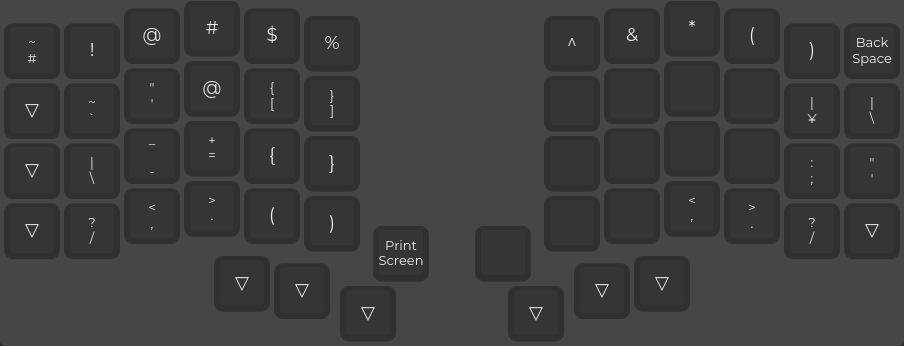
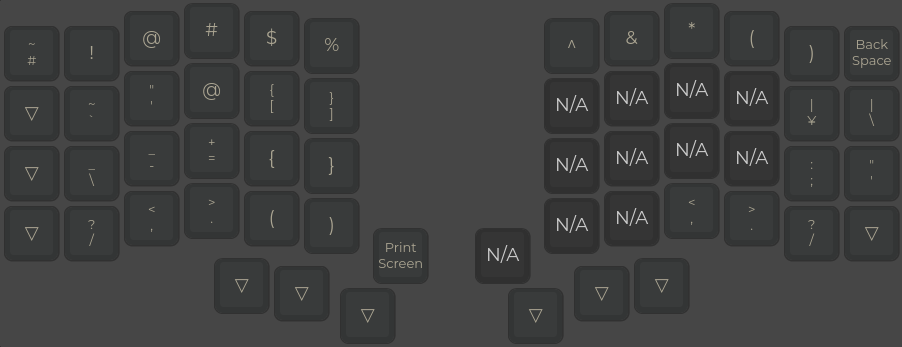
Fix backslash

diff --git a/src/keymap.c b/src/keymap.c
@@ -8,7 +8,7 @@
 
 const uint16_t PROGMEM keymaps[][MATRIX_ROWS][MATRIX_COLS] = {
 	[0] = LAYOUT(KC_GESC, KC_1, KC_2, KC_3, KC_4, KC_5, KC_6, KC_7, KC_8, KC_9, KC_0, KC_BSPC, KC_TAB, KC_Q, KC_W, KC_E, KC_R, KC_T, KC_Y, KC_U, KC_I, KC_O, KC_P, KC_BSLS, KC_LCTL, KC_A, KC_S, KC_D, KC_F, KC_G, KC_H, KC_J, KC_K, KC_L, KC_SCLN, KC_QUOT, KC_LSFT, KC_Z, KC_X, KC_C, KC_V, KC_B, MO(4), MO(3), KC_N, KC_M, KC_COMM, KC_DOT, KC_SLSH, KC_RSFT, KC_LGUI, MO(2), KC_ENT, KC_SPC, MO(1), KC_RALT),
-	[1] = LAYOUT(KC_NUHS, KC_EXLM, KC_AT, KC_HASH, KC_DLR, KC_PERC, KC_CIRC, KC_AMPR, KC_ASTR, KC_LPRN, KC_RPRN, KC_BSPC, KC_TRNS, KC_GRV, KC_QUOT, KC_AT, KC_LBRC, KC_RBRC, KC_NO, KC_NO, KC_NO, KC_NO, KC_JYEN, KC_BSLS, KC_TRNS, KC_BSLS, KC_MINS, KC_EQL, KC_LCBR, KC_RCBR, KC_NO, KC_NO, KC_NO, KC_NO, KC_SCLN, KC_QUOT, KC_TRNS, KC_SLSH, KC_COMM, KC_DOT, KC_LPRN, KC_RPRN, KC_PSCR, KC_NO, KC_NO, KC_NO, KC_COMM, KC_DOT, KC_SLSH, KC_TRNS, KC_TRNS, KC_TRNS, KC_TRNS, KC_TRNS, KC_TRNS, KC_TRNS),
+	[1] = LAYOUT(KC_NUHS, KC_EXLM, KC_AT, KC_HASH, KC_DLR, KC_PERC, KC_CIRC, KC_AMPR, KC_ASTR, KC_LPRN, KC_RPRN, KC_BSPC, KC_TRNS, KC_GRV, KC_QUOT, KC_AT, KC_LBRC, KC_RBRC, KC_NO, KC_NO, KC_NO, KC_NO, KC_JYEN, KC_NUBS, KC_TRNS, KC_NUBS, KC_MINS, KC_EQL, KC_LCBR, KC_RCBR, KC_NO, KC_NO, KC_NO, KC_NO, KC_SCLN, KC_QUOT, KC_TRNS, KC_SLSH, KC_COMM, KC_DOT, KC_LPRN, KC_RPRN, KC_PSCR, KC_NO, KC_NO, KC_NO, KC_COMM, KC_DOT, KC_SLSH, KC_TRNS, KC_TRNS, KC_TRNS, KC_TRNS, KC_TRNS, KC_TRNS, KC_TRNS),
 	[2] = LAYOUT(KC_F12, KC_F1, KC_F2, KC_F3, KC_F4, KC_F5, KC_F6, KC_F7, KC_F8, KC_F9, KC_F10, KC_F11, KC_TRNS, KC_NO, KC_NO, KC_NO, KC_NO, KC_NO, KC_INS, KC_DEL, KC_NO, KC_PGUP, KC_NO, KC_SLCK, KC_TRNS, KC_NO, KC_NO, KC_NO, KC_NO, KC_NO, KC_HOME, KC_END, KC_UP, KC_PGDN, KC_NO, KC_PAUS, KC_TRNS, KC_NO, KC_NO, KC_NO, KC_NO, KC_NO, KC_PSCR, KC_NO, KC_NO, KC_LEFT, KC_DOWN, KC_RGHT, KC_NO, KC_TRNS, KC_TRNS, KC_TRNS, KC_TRNS, KC_TRNS, KC_TRNS, KC_TRNS),
 	[3] = LAYOUT(KC_NO, KC_NO, KC_NO, KC_NO, KC_NO, KC_NO, KC_NO, KC_NO, KC_NO, KC_NO, KC_NO, KC_NO, KC_NO, KC_NO, KC_NO, KC_NO, KC_MSTP, KC_NO, KC_NO, KC_NO, KC_NO, KC_NO, KC_NO, KC_NO, KC_NO, KC_NO, KC_MPRV, KC_MNXT, KC_MPLY, KC_NO, KC_NO, KC_VOLU, KC_VOLD, KC_MUTE, KC_NO, KC_NO, KC_NO, KC_NO, KC_NO, KC_NO, KC_NO, KC_NO, KC_TRNS, KC_TRNS, KC_NO, KC_NO, KC_NO, KC_NO, KC_NO, KC_NO, KC_NO, KC_NO, KC_NO, KC_NO, KC_NO, KC_NO),
 	[4] = LAYOUT(RESET, DEBUG, KC_NO, KC_NO, KC_NO, KC_NO, KC_NO, KC_P7, KC_P8, KC_P9, KC_PSLS, KC_NO, KC_NO, KC_NO, KC_NO, RGB_MOD, RGB_TOG, RGB_RMOD, KC_NO, KC_P4, KC_P5, KC_P6, KC_PAST, KC_NO, KC_NO, KC_NO, RGB_SPI, RGB_HUI, RGB_SAI, RGB_VAI, KC_NO, KC_P1, KC_P2, KC_P3, KC_PMNS, KC_NO, KC_NO, KC_NO, RGB_SPD, RGB_HUD, RGB_SAD, RGB_VAD, KC_TRNS, KC_TRNS, KC_NO, KC_NLCK, KC_P0, KC_PDOT, KC_PPLS, KC_NO, KC_NO, KC_NO, KC_NO, KC_NO, KC_NO, KC_NO)
